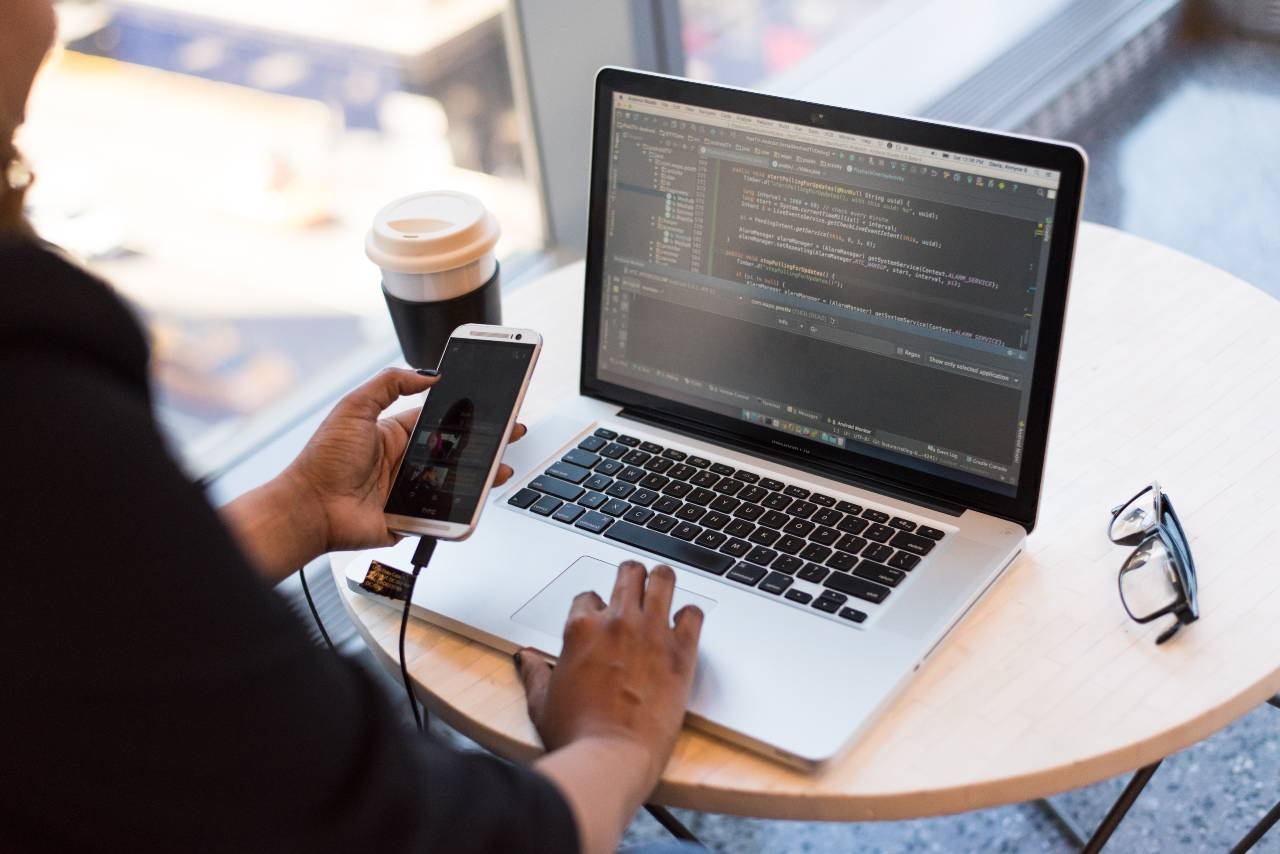
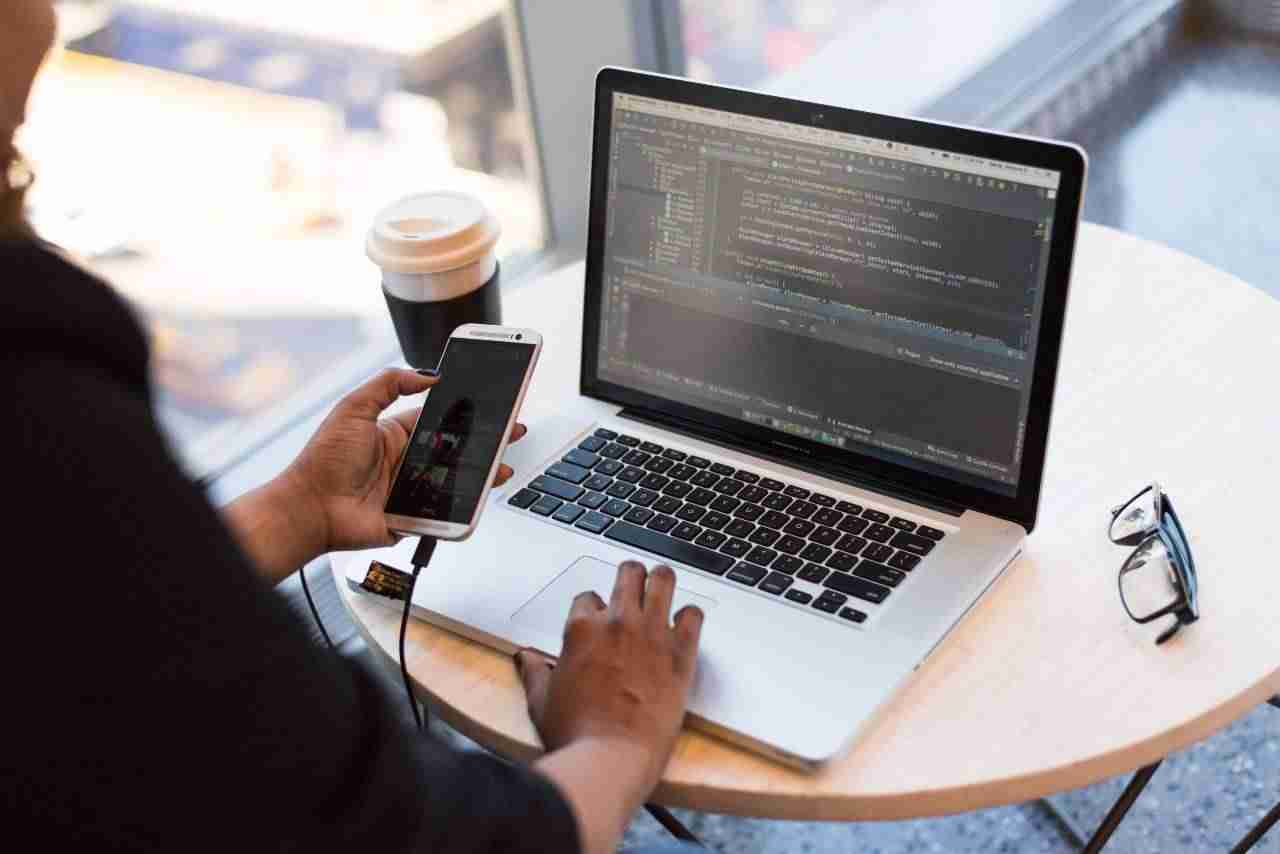
:ok_hand: Add (Images): Compressed & Resized images added

Changed region(s): [[0.4062, 0.5176, 0.7188, 0.6698], [0.2812, 0.6698, 0.3125, 0.7002]]

diff --git a/index.html b/index.html
@@ -10,7 +10,7 @@
 	<link href="css/responsive.css" rel="stylesheet">
 
 	<link rel="shortcut icon" href="images/favicon.ico" type="image/x-icon">
-	<link rel="icon" href="images/favicon.png" type="image/x-icon">
+	<link rel="icon" href="images/favicon.jpg" type="image/x-icon">
 
 	<link
 		href="https://fonts.googleapis.com/css2?family=Poppins:wght@300;400;500;600;700;800;900&family=Titillium+Web:wght@300;400;600;700;900&display=swap"
@@ -125,8 +125,10 @@
 
 				<!-- Image Boxed -->
 				<div class="image titlt" data-tilt="" data-tilt-max="4">
-					<a href="images/resource/banner.png" data-fancybox="banner" data-caption="" class=""><img
-							src="images/resource/banner.png" alt=""></a>
+					<a href="https://raw.githubusercontent.com/GDG-Addis/TechCampEthiopia/main/images/resource/banner.png"
+						data-fancybox="banner" data-caption="" class=""><img
+							src="https://raw.githubusercontent.com/GDG-Addis/TechCampEthiopia/main/images/resource/banner.png"
+							alt=""></a>
 				</div>
 
 				<!-- Search Boxed -->
@@ -896,25 +898,25 @@
 	<div class="scroll-to-top scroll-to-target" data-target="html"><span class="fa fa-arrow-circle-up"></span>
 	</div>
 
-	<script src="js/jquery.js"></script>
-	<script src="js/popper.min.js"></script>
-	<script src="js/jquery.scrollTo.js"></script>
-	<script src="js/bootstrap.min.js"></script>
-	<script src="js/jquery.mCustomScrollbar.concat.min.js"></script>
-	<script src="js/jquery.fancybox.js"></script>
-	<script src="js/appear.js"></script>
-	<script src="js/jquery.countdown.js"></script>
-	<script src="js/swiper.min.js"></script>
-	<script src="js/element-in-view.js"></script>
-	<script src="js/jquery.paroller.min.js"></script>
-	<script src="js/parallax.min.js"></script>
-	<script src="js/tilt.jquery.min.js"></script>
+	<script defer src="js/jquery.js"></script>
+	<script defer src="js/popper.min.js"></script>
+	<script defer src="js/jquery.scrollTo.js"></script>
+	<script defer src="js/bootstrap.min.js"></script>
+	<script defer src="js/jquery.mCustomScrollbar.concat.min.js"></script>
+	<script defer src="js/jquery.fancybox.js"></script>
+	<script defer src="js/appear.js"></script>
+	<script defer src="js/jquery.countdown.js"></script>
+	<script defer src="js/swiper.min.js"></script>
+	<script defer src="js/element-in-view.js"></script>
+	<script defer src="js/jquery.paroller.min.js"></script>
+	<script defer src="js/parallax.min.js"></script>
+	<script defer src="js/tilt.jquery.min.js"></script>
 	<!--Master Slider-->
-	<script src="js/jquery.easing.min.js"></script>
-	<script src="js/owl.js"></script>
-	<script src="js/wow.js"></script>
-	<script src="js/jquery-ui.js"></script>
-	<script src="js/script.js"></script>
+	<script defer src="js/jquery.easing.min.js"></script>
+	<script defer src="js/owl.js"></script>
+	<script defer src="js/wow.js"></script>
+	<script defer src="js/jquery-ui.js"></script>
+	<script defer src="js/script.js"></script>
 
 	<!--Start of Tawk.to Script-->
 	<script type="text/javascript">
